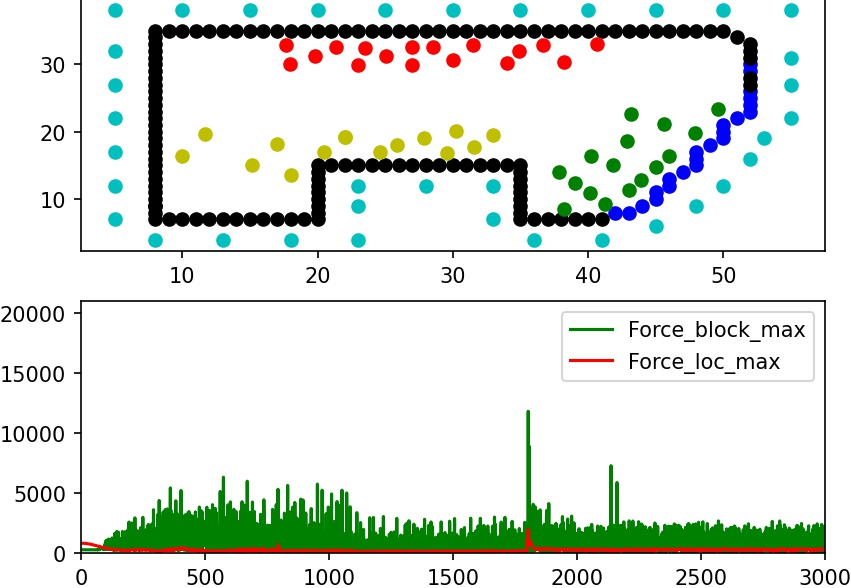
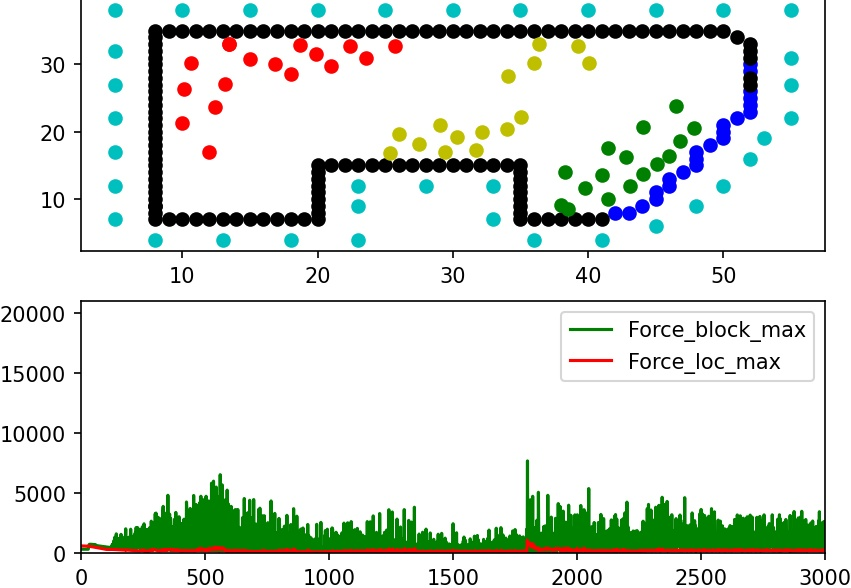
Finding the points have to be resolved.

diff --git a/Moving/objects_moving.py b/Moving/objects_moving.py
@@ -420,7 +420,7 @@ class Particle_wsarm:
                            step)
             self.micro_process()
 
-    def show_short_path(self, x_path, y_path, length=3000):
+    def show_short_path(self, x_path, y_path, x_points, y_points, length=3000):
         fig, ax = plt.subplots(2)
         ax[1].set_xlim(0, length)
         ax[1].set_ylim(0, 21000)
@@ -449,6 +449,7 @@ class Particle_wsarm:
         for x_p, y_p in zip(x_path, y_path):
             ax[0].plot(x_p, y_p)
 
+        ax[0].scatter(x_points, y_points, marker='x', color='black')
         # ax[1].text(480, 10, t)
         ax[1].legend()
 
@@ -495,6 +496,8 @@ class Corridors:
         self.w_dist_bw = []
         self.weights = []
         self.indexes = []
+        self.permited_points_x = []
+        self.permited_points_y = []
 
     def find_ar_point(self):
         '''
@@ -604,6 +607,23 @@ class Corridors:
         self.qu_mask_bt_cl = qu_mask_bt_cl_zeros  # saving the matrix of attention weights
         self.qu_w_dist = qu_w_dist_zeros  # saving the matrix of distant weights
 
+    def find_min_dist_point_drops(self):
+        a_source = []
+        for x, y in zip(self.x_arr, self.y_arr):
+            if np.amin(self.x_obj - x) == 0:
+                print(np.min(self.y_obj - y))
+            #print('Here', x, y, np.min(np.sqrt(np.square(self.x_obj - x) + np.square(self.y_obj - y))))
+            a_min = np.min(np.sqrt(np.square(self.x_obj - x) + np.square(self.y_obj - y)))
+            a_source.append(a_min)
+
+        #print(a_source)
+        a_source = np.array(a_source)
+        min_dist_mtr = np.array([a_source, ] * a_source.shape[0])  # transforming distant list to square matrix
+        np.fill_diagonal(min_dist_mtr, 0)  # removing diagonal elements
+
+        self.min_dist_mtr = min_dist_mtr  # saving weight distant matrix
+
+
     def find_dist_ar_p(self):
         """
         Function founds weights of average points as the distant between average points.
@@ -627,13 +647,21 @@ class Corridors:
         self.weights = self.qu_w_dist * k_w_dist + self.qu_mask_bt_cl * k_mask_bt_cl \
                        + self.w_dist_bw * k_dist_bw  # Summing weights
 
-    def exception_weight(self, thr=0.2):
+    def exception_weight(self, thr=0.6):
         """
         Function founds the points where the distant between points less then threshold
         """
         # FOR DEBUGGING: The threshold have to be rejected
-        max_dist = np.max(self.w_dist_bw)  # Founding the maximal distant
-        self.indexes = np.argwhere(self.w_dist_bw <= max_dist * thr)  # Founding the indexes less then threshold
+        max_dist = np.max(self.min_dist_mtr)  # Founding the maximal distant
+        self.indexes = np.argwhere(self.min_dist_mtr >= max_dist * thr)
+        # Founding the indexes less then threshold
+        print('Shape', self.indexes.shape)
+        for ind in self.indexes:
+            if ind[0] != ind[1]:
+                self.permited_points_x.append(self.x_arr[ind[0]])
+                self.permited_points_y.append(self.y_arr[ind[1]])
+
+
 
     def set_graph(self):
         """
@@ -643,6 +671,8 @@ class Corridors:
         self.G.add_nodes_from(nodes)  # Initialling the nodes of graph
         for edge in self.indexes:
             if edge[0] == edge[1]:  # exception diagonal points
+                continue
+            elif edge[0] >= 1128 and edge[1] >= 1128:
                 continue
             self.G.add_edge(edge[0], edge[1], weight=self.weights[edge[0], edge[1]])  # Adding edge weights
 
@@ -666,10 +696,12 @@ class Corridors:
         self.add_points()
         self.find_dist_ar_p()
         self.summing_w()
+        self.find_min_dist_point_drops()
         self.exception_weight()
         self.set_graph()
         s = (self.x_doors.shape[0], self.x_doors.shape[0])
         print(s)
+        max_length = 0
         pathes_x = []
         pathes_y = []
         pathes = np.array([])
@@ -685,6 +717,7 @@ class Corridors:
 
         print(matrix_short_pathes)
         i, j = np.unravel_index(matrix_short_pathes.argmax(), matrix_short_pathes.shape)
+        max_length = matrix_short_pathes[i, j]
         print(i, j)
         path_x, path_y, path = self.shortest_path(i, j)
         pathes = np.append(pathes, path)
@@ -694,18 +727,23 @@ class Corridors:
         for point in accountant_doors:
             lengthes = np.array([])
             for node in pathes:
-                length = nx.shortest_path_length(self.G, source=self.x_arr.shape[0] - point - 1, target=node,
-                                                 weight='weight')
-                lengthes = np.append(lengthes, length)
+                if self.x_arr.shape[0] - point - 1 != node:
+                    length = nx.shortest_path_length(self.G, source=self.x_arr.shape[0] - point - 1, target=node,
+                                                     weight='weight')
+                    lengthes = np.append(lengthes, length)
+                else:
+                    lengthes = np.append(lengthes, max_length)
+
             print('Pathes', pathes)
             print('Leghtes', lengthes)
             n_nodes = np.unravel_index(lengthes.argmin(), lengthes.shape)
             n_nodes = pathes[n_nodes]
-            path = nx.shortest_path(self.G, source=self.x_arr.shape[0] - point - 1,
+            path_2 = nx.shortest_path(self.G, source=self.x_arr.shape[0] - point - 1,
                                     target=n_nodes, weight='weight')
-            path_x = self.x_arr[path]
-            path_y = self.y_arr[path]
-            np.append(pathes, path)
+            print("Path", path_2, 'indexes', self.x_arr.shape[0] - point - 1, n_nodes)
+            path_x = self.x_arr[path_2]
+            path_y = self.y_arr[path_2]
+            np.append(pathes, path_2)
             pathes_x.append(path_x)
             pathes_y.append(path_y)
 
@@ -971,6 +1009,7 @@ if __name__ == "__main__":
     P_w.process()
     current_x_obj = P_w.points_obj_x
     current_y_obj = P_w.points_obj_y
-    P_corridors = Corridors(current_x_obj, current_y_obj, cl_att_cl, Num_cl, [52, 8, 35], [31, 22, 10])
+    P_corridors = Corridors(current_x_obj, current_y_obj, cl_att_cl, Num_cl, [52, 8, 35, 35, 20], [31, 22, 10, 35, 10])
     result_path_x, result_path_y = P_corridors.first_test()
-    P_w.show_short_path(result_path_x, result_path_y)
+    potential_x_path, potential_y_path = P_corridors.permited_points_x, P_corridors.permited_points_y
+    P_w.show_short_path(result_path_x, result_path_y, potential_x_path, potential_y_path)
